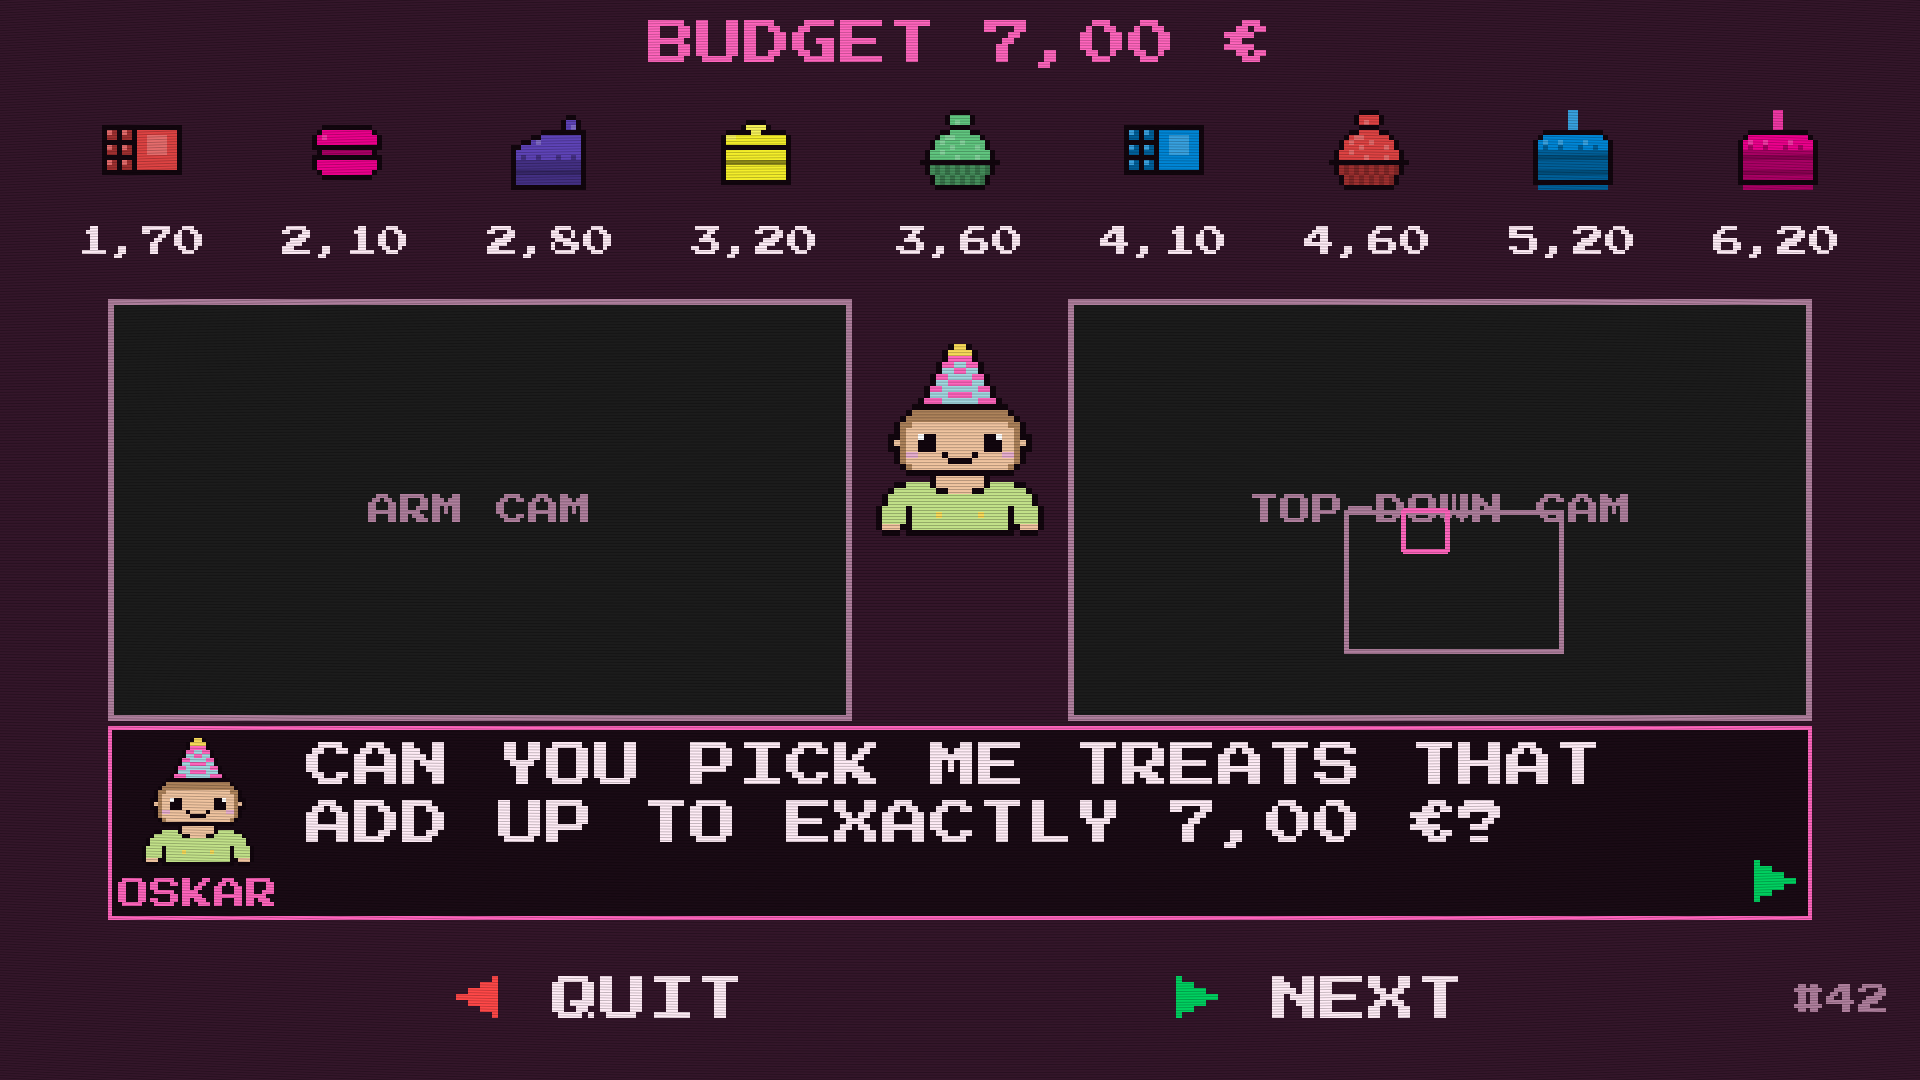
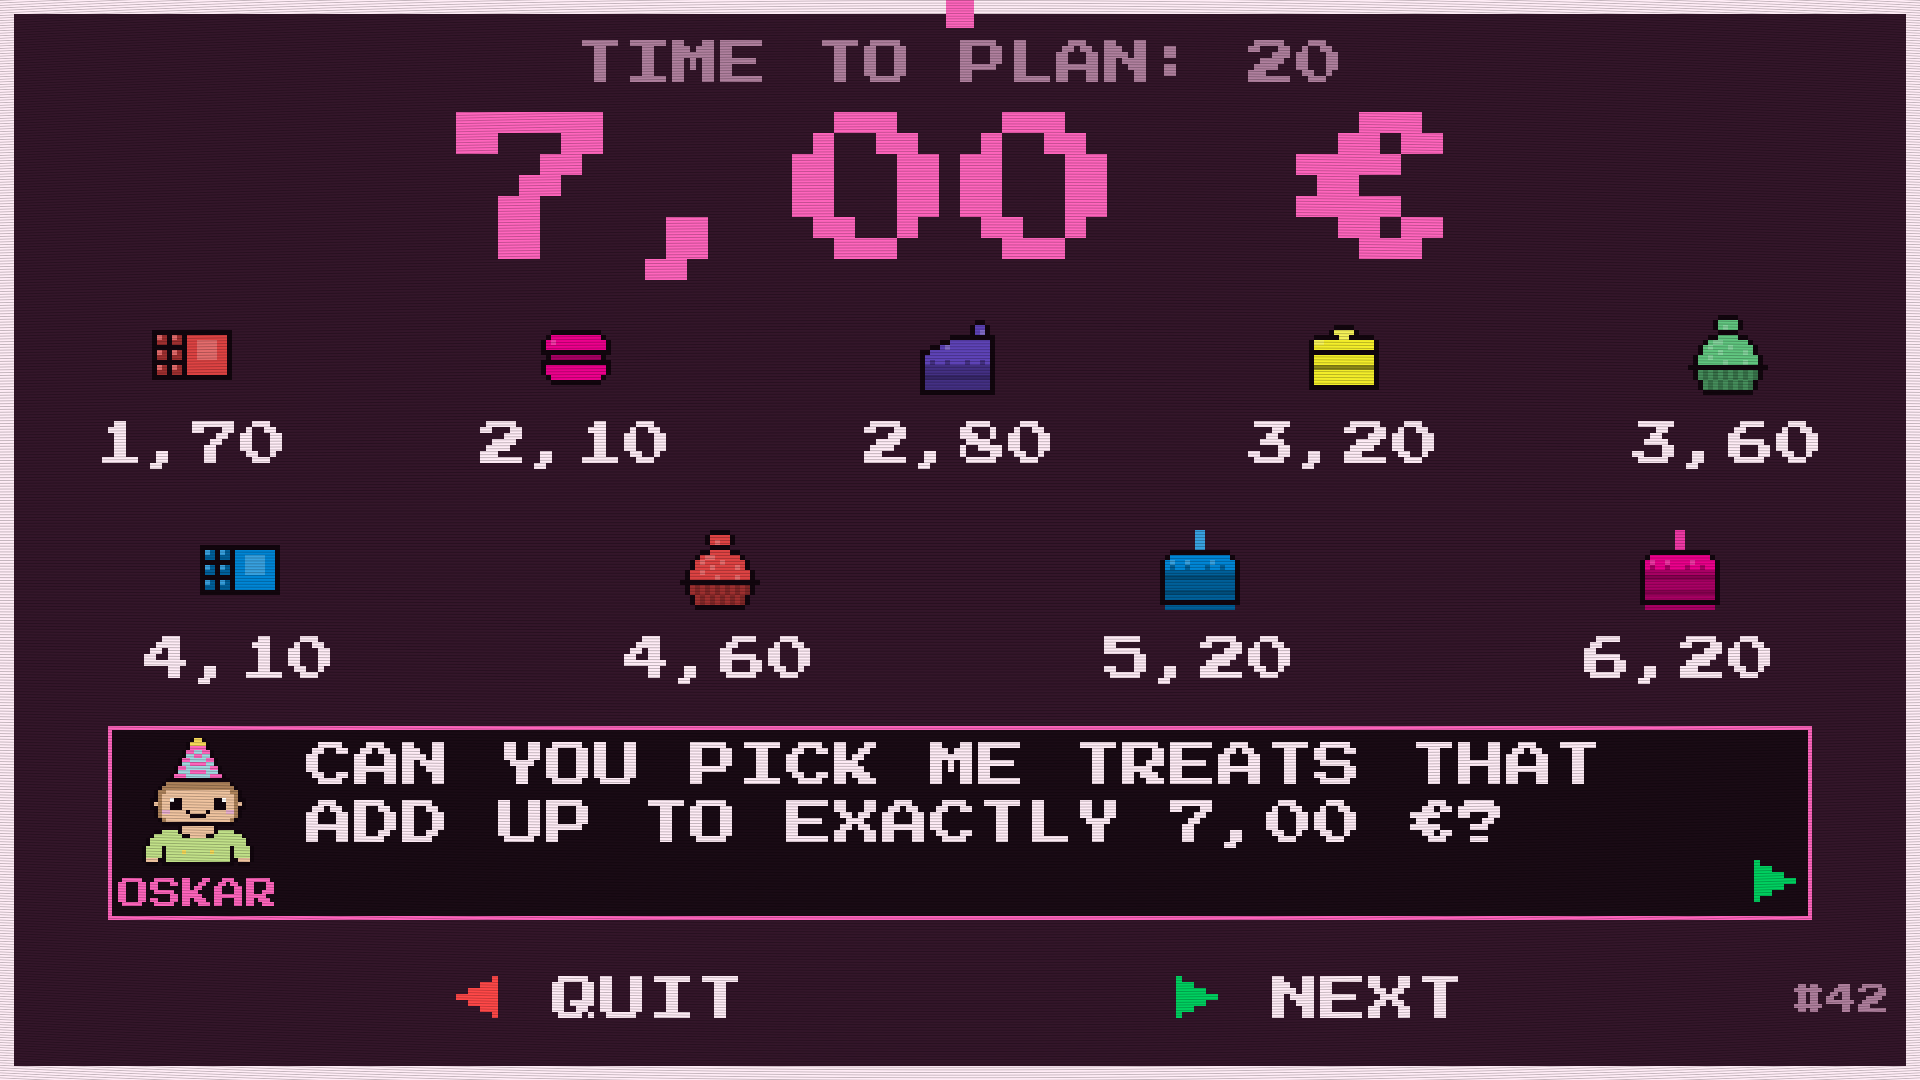
feat: think time during Oskar's order -- panes off, big two-row price ladder, fuse + countdown, round starts itself (pnp-think)

diff --git a/game/scenes.py b/game/scenes.py
@@ -787,7 +787,7 @@ class GameScene(SceneBase):
     SCALE = GAP_MAX + max(VALUES.values())
     GOAL_W, GOAL_OVER = 9, 12   # width and overhang of the goal line
     STRIP_Y = 848               # price strip: sprites here, prices below
-    LADDER_Y = 150              # order phase: the ladder on top, above the panes
+    LADDER_Y, LADDER_ROW = 355, 215   # order phase: ladder in two rows, pane area
     GUEST = (960, 440)          # the guest stands between the panes
     POP = (960, 610)            # ... and "+2,40" pops up under him
 
@@ -827,10 +827,19 @@ class GameScene(SceneBase):
         # would decide whether someone has to bridge EUR 0.30 or EUR 20.
         self.dist = gap(self.marks, up=True)
         self.target = self.total + self.dist
+        self.think = float(THINK_SECONDS)
         self.log("order", tray=sorted(self.marks), total=self.total,
                  dist=self.dist, target=self.target)
         self.dialog = Dialog(self.ctx.music, "guest", self.t("guest"),
                              self.t("order", goal=euro(self.target)))
+
+    def start(self, how):
+        """Order -> play: by ▶ on Oskar's last page, or when THINK_SECONDS
+        run out. `how` goes to the log, it says who reads the text at all."""
+        self.phase, self.dialog = "play", None
+        self.log("play", how=how, think=round(THINK_SECONDS - self.think, 1),
+                 tray=sorted(self.marks), total=self.total, target=self.target)
+        self.ctx.music.stage(self.left)
 
     def handle(self, action):
         if action == "left":
@@ -855,9 +864,7 @@ class GameScene(SceneBase):
         elif self.phase == "tut_done" and self.dialog.next():
             self.order()
         elif self.phase == "order" and self.dialog.next():
-            self.phase, self.dialog = "play", None
-            self.log("play", tray=sorted(self.marks), total=self.total, target=self.target)
-            self.ctx.music.stage(self.left)
+            self.start("button")
             return "start"
         elif self.phase == "play" and CHEAT_TAPS:
             # ponytail: developer shortcut. Doesn't jump into the round, but
@@ -904,6 +911,11 @@ class GameScene(SceneBase):
                 self.pop = None
         if self.dialog:
             self.dialog.update(dt)
+        if self.phase == "order":
+            self.think -= dt
+            if self.think <= 0:
+                self.ctx.music.sfx("start")
+                self.start("timer")
         if self.phase != "play":
             if self.fx:
                 self.fx.update(dt)
@@ -1013,13 +1025,18 @@ class GameScene(SceneBase):
             draw(screen, f["tiny"], euro(VALUES[k], sign=False), x, self.STRIP_Y + 54, color)
 
     def ladder(self, screen, f):
-        """The order screen: every treat big with its price, cheap to dear.
-        Full screen width, not the bar's; "small" prices ran into each other."""
-        for i, k in enumerate(sorted(VALUES, key=VALUES.get)):
-            x = 40 + (WIDTH - 80) * (i + 0.5) / len(VALUES)
-            stamp(screen, SPRITE[k], 5, x, self.LADDER_Y)
-            draw(screen, f["tiny"], euro(VALUES[k], sign=False), x,
-                 self.LADDER_Y + 92, WHITE)
+        """Oskar's order: every treat with its price, cheap to dear, in two
+        rows where the panes usually are -- one row left the prices too
+        small to read from the leader arm."""
+        order = sorted(VALUES, key=VALUES.get)
+        per = (len(order) + 1) // 2
+        for i, k in enumerate(order):
+            row, col = divmod(i, per)
+            n = per if row == 0 else len(order) - per
+            x = WIDTH * (col + 0.5) / n
+            y = self.LADDER_Y + row * self.LADDER_ROW
+            stamp(screen, SPRITE[k], 5, x, y)
+            draw(screen, f["small"], euro(VALUES[k], sign=False), x, y + 90, WHITE)
 
     def _x(self, value):
         """Price -> x in the bar. Clamped so nothing runs out."""
@@ -1030,7 +1047,13 @@ class GameScene(SceneBase):
         # Priority is the camera images: the player steers the arm by them.
         f = self.ctx.fonts
         screen.fill(BG)
-        for view, pos in zip(self.ctx.views, CAM_POS):
+        # No panes while Oskar orders (29.9., fair): with the image on,
+        # people started placing treats before the round. The ladder takes
+        # their place instead, big enough to do the sums from.
+        views = () if self.phase == "order" else zip(self.ctx.views, CAM_POS)
+        if self.phase == "order":
+            self.ladder(screen, f)
+        for view, pos in views:
             cam = view.surface()
             if cam:
                 r = cam.get_rect(center=pos)
@@ -1054,23 +1077,20 @@ class GameScene(SceneBase):
             diff = self.target - self.total
             label, value = self.t("add" if diff > 0 else "over"), euro(abs(diff))
         if self.phase == "order":
-            # Oskar's order is the time to do the sums (29.9., booth ask):
-            # the price ladder takes the top, the budget shrinks to one line
-            # above it. The panes stay, the player maps where each treat
-            # lies. No fuse -- the clock only runs in "play".
-            draw(screen, f["small"], f"{label} {value}", 960, 44, ACCENT)
-            self.ladder(screen, f)
-        else:
-            draw(screen, f["small"], label, 960, 64, GREY)
-            draw(screen, big, value, 960, 196, ACCENT)
+            label = self.t("think", n=max(0, math.ceil(self.think)))
+        draw(screen, f["small"], label, 960, 64, GREY)
+        draw(screen, big, value, 960, 196, ACCENT)
         tag(screen, f, self.player)
-        if self.phase in ("order", "play"):
+        if self.phase == "play":    # in "order" his face is in the dialog
             stamp(screen, self.mood(), 6, *self.GUEST)
-        if self.pop:
+        if self.pop and self.phase != "order":    # would sit on the ladder
             name, text, age = self.pop
             rise = round(age * 20)
             stamp(screen, name, 4, self.POP[0], self.POP[1] - rise)
             draw(screen, f["tiny"], text, self.POP[0], self.POP[1] + 58 - rise, ACCENT)
+        if self.phase == "order":
+            fuse(screen, max(0.0, self.think / THINK_SECONDS) if THINK_SECONDS else 0.0,
+                 WHITE, self.clock)
         if self.dialog:
             self.dialog.draw(screen, f)
         else:
@@ -1351,9 +1371,14 @@ if __name__ == "__main__":
         read(g.dialog)
         g.handle("right")
         assert g.phase == "order" and g.target > g.total
-        check(f"{lang} order", g, panes)
+        check(f"{lang} order", g, [])    # own screen, no panes
         read(g.dialog)
         assert g.handle("right") == "start" and g.phase == "play"
+        # Nobody presses ▶: the think time runs out and the round starts itself
+        g2 = GameScene(ctx, 999, "WWW", tutorial=False)
+        assert g2.phase == "order"
+        g2.update(THINK_SECONDS + 0.1)
+        assert g2.phase == "play" and g2.dialog is None
         # Four treats off the actual price list, not four literal IDs: which
         # markers exist is print-day data since 2026-09-25.
         _s.tray = {i: [(.3, .3)] * 4 for i in sorted(VALUES)[:4]}

diff --git a/game/themes/sugar_rush.py b/game/themes/sugar_rush.py
@@ -70,7 +70,7 @@ TEXT = {
         tut="WARM-UP: PUT ANY TREAT ON THE TRAY, CODE FACING UP SO THE TOP CAMERA SEES IT.",
         tut_done="NICE! THAT ONE IS {price}. OH, HERE COMES A CUSTOMER!",
         skip="▶ SKIP", skip_ok="▶ AGAIN TO SKIP", quit="◀ QUIT", quit_ok="◀ AGAIN TO QUIT",
-        order_head="BUDGET",
+        order_head="BUDGET", think="TIME TO PLAN: {n}",
         order="HI! IT'S MY BIRTHDAY, AND I'VE GOT EXACTLY {goal}.|"
               "CAN YOU PICK ME TREATS THAT ADD UP TO EXACTLY {goal}?|"
               "THE CLOCK ISN'T RUNNING YET. DO THE MATH NOW: WHICH TREATS UP TOP MAKE {goal}?",
@@ -106,7 +106,7 @@ TEXT = {
         skip="▶ ÜBERSPRINGEN", skip_ok="▶ NOCHMAL ZUM ÜBERSPRINGEN",
         quit="◀ ABBRECHEN",
         quit_ok="◀ NOCHMAL ZUM ABBRECHEN",
-        order_head="BUDGET",
+        order_head="BUDGET", think="RECHENZEIT: {n}",
         order="HALLO! ICH HAB HEUTE GEBURTSTAG UND GENAU {goal} DABEI.|"
               "SUCHST DU MIR SÜßIGKEITEN FÜR GENAU {goal} AUS?|"
               "NOCH LÄUFT KEINE ZEIT. RECHNE JETZT: WELCHE SÜßIGKEITEN OBEN ERGEBEN {goal}?",

diff --git a/game/config.py b/game/config.py
@@ -226,7 +226,7 @@ CENTS  = 10        # one VALUES step in cents. Only read by euro().
 #                this price set, the self-test in balance.py prints the
 #                number on every run.
 MODES = {
-    "normal": dict(ROUND_SECONDS=90, PERFECT_HOLD=3.0, GAP_MOVES=2,
+    "normal": dict(ROUND_SECONDS=90, THINK_SECONDS=20, PERFECT_HOLD=3.0, GAP_MOVES=2,
                    GAP_MIN=25, GAP_MAX=98, GAP_ONE_MISS=2, GAP_ONE_MAX=25),
 }
 MODE = os.environ.get("PNP_MODE", "normal")
@@ -244,6 +244,9 @@ def _mode(key):
 
 
 ROUND_SECONDS = _mode("ROUND_SECONDS")
+# Oskar's order: time to do the sums, panes off, then the round starts on
+# its own (29.9., fair). ▶ starts it earlier. pnp-think on the Pi.
+THINK_SECONDS = _mode("THINK_SECONDS")
 PERFECT_HOLD  = _mode("PERFECT_HOLD")
 GAP_MOVES     = _mode("GAP_MOVES")
 GAP_MIN       = _mode("GAP_MIN")
